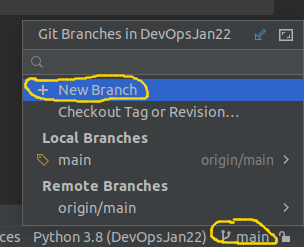
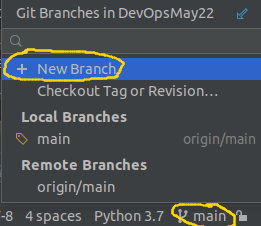
ex1 fixes

diff --git a/exercises/linux_ex1.md b/exercises/linux_ex1.md
@@ -4,23 +4,22 @@ Due date: 04/07/22 23:59
 ## Preliminaries
 
 1. Make sure your Pycharm terminal is configured to run Git Bash (not Powershell)
-2. Open (or clone if you didn't do it yet) [our shared git repo](https://github.com/alonitac/DevOpsMay22) in PyCharm and pull the repository ![Pull Button](img/pull.png) to get an up-to-date version
+2. Open (or clone if you didn't do it yet) [our shared git repo](https://github.com/alonitac/DevOpsMay22) in PyCharm (Git -> clone...) and pull the repository ![Pull Button](img/pull.png) to get an up-to-date version.
 3. From Pycharm button right bar, create your own git branch (Git branches will be discussed later):
 
 ![New Branch](img/branch.png)
 
-Then change <alias\> to your nickname. e.g. `linux_ex1/alonit`. The branch name must start with `linux_ex1/`
+Then change `<alias>` to your nickname. e.g. `linux_ex1/alonit`. The branch name must start with `linux_ex1/`
 
 ![Branch Name](img/branch2.png)
 
 ### Submission
 
-At the end of this exercise, under `01_linux_ex1` directory, you should commit and push **only** 2 files as your solution:
+At the end of this exercise, under `01_linux_ex1` directory in the repository, you should commit and push **only** 2 files as your solution:
 
-- `README` file with your email at the first line, your generated secret (see last question below), and open answers for the first two questions below, as following:
+- `README` file with your generated secret in the first list (see last question below), and open answers for the first two questions below, as following:
 ```text
-name@example.com
-< your secret here >
+< your secret here >     << secret must be in the first line!!!
 
 
 Kernel System Calls
@@ -63,16 +62,17 @@ To run the program, do the following:
 
 - Open a linux terminal in an empty directory and perform:
 ```shell
-wget https://devops-jan22.s3.eu-north-1.amazonaws.com/whatIdo
-chmod 700 ./whatIdo
+wget https://devops-may22.s3.eu-north-1.amazonaws.com/whatIdo
 ```
 The `wget` command is able to retrieve data from the internet.
 
-- Run the program using `strace`.
-- Follow strace output. Tip: many lines in the beginning are part of the load of the
-program. The first “interesting” lines comes only at the end of the output
+1. Give `whatIdo` file an execution permission (make sure you don't get Permission denied when running it).
+2. Run the program using strace: `strace whatIdo`.
+3. Follow strace output. Tip: many lines in the beginning are part of the load of the
+program. The first “interesting” lines comes only at the end of the output. 
 
-Your assignment is to supply a brief description of what the program does in the README file
+Your assignment is to supply a brief description of what the program does in the README file. Don't copy & paste the terminal output as your answer, neither explain any single command. Try to get a general idea of what this program does by observing the sys calls.
+
 
 ### Binary Numbers
 (20 Points)
@@ -86,21 +86,21 @@ Your assignment is to supply a brief description of what the program does in the
 ### File System Manipulations
 (60 points)
 
-- Open a linux terminal and perform:
+- Open a **Linux terminal** and perform:
 ```shell
-wget https://devops-jan22.s3.eu-north-1.amazonaws.com/secretGenerator.tar.gz
+wget https://devops-may22.s3.eu-north-1.amazonaws.com/secretGenerator.tar.gz
 ```
 
-- Use `tar` to extract the compressed file. `cd` to *src* directory. Explore the files and their content.
+1. Use `tar` to extract the compressed file. `cd` to *src* directory. Explore the files and their content.
                                                                                                                                                                                                                                                                                                                                                                                                                                                                                                                                                                                                                                                                                                                                                                                                                                                                                                                                                                                                                                                                                                                                                                                                                                                                                                                                                                                                                                                                                                                                                                                                                                                                                                                                                                                                                                                                                                                                                                                                                                                                                                                                                                                                                                                                                                                                                                                                                                                 
-- Your goal is to generate a secret. The secret can be generated using `/bin/bash generateSecret.sh`.
+2. Your goal is to generate a secret. The secret can be generated using `/bin/bash generateSecret.sh`.
 
-- Once you've generated it, copy it to the designated place in the README file (33 characters). 
+3. Once you've generated it, copy it to the designated place in the README file (33 characters). 
 
-- Use `nano` or your preferred text editor, and **write a complete commands set** that let you to generate the secret in `yourSolution.sh` file (single command in each line).
+4. Use `nano` or your preferred text editor, and **write a complete commands set** that let you generate the secret in `yourSolution.sh` file (single command in each line).
 At the end, given a clean version of *src* directory (without the changes you've made) you should be able to run `/bin/bash yourSolution.sh` and the secret should be generated without any errors. 
-- Copy the content of `yourSolution.sh` into the same file in the Git repo (_02_linux_ex1/yourSolution.sh_). 
-- Commit ![Commit Button](img/commit.png) **ONLY** *02_linux_ex1/README* and *02_linux_ex1/yourSolution.sh* files **ONLY**. by:
+5. Copy the content of `yourSolution.sh` into the same file in the Git repo (_01_linux_ex1/yourSolution.sh_). 
+6. Commit ![Commit Button](img/commit.png) **ONLY** *01_linux_ex1/README* and *01_linux_ex1/yourSolution.sh* files. by:
 
 ![Commit Msg](img/commitmsg.png)
 
